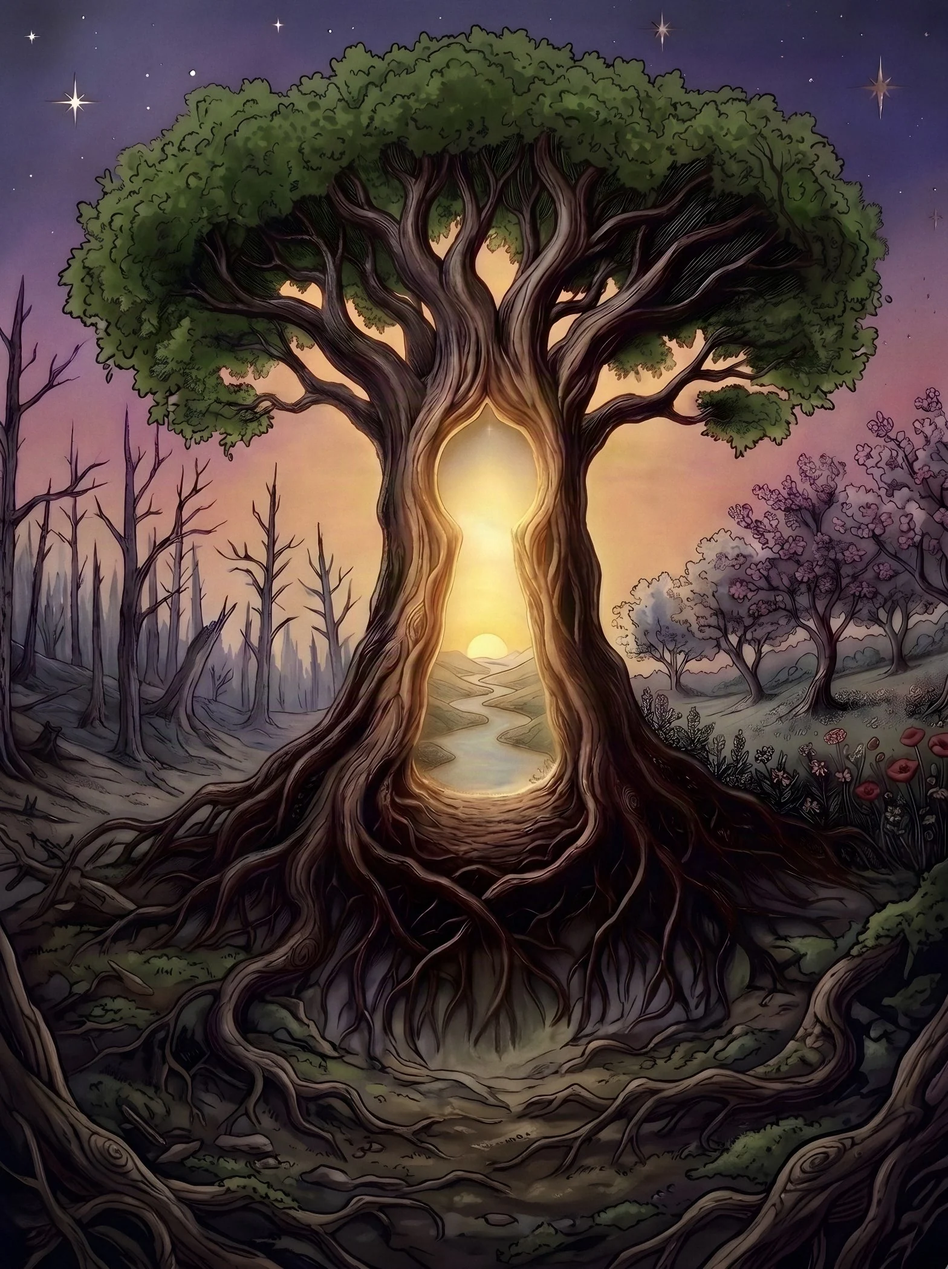
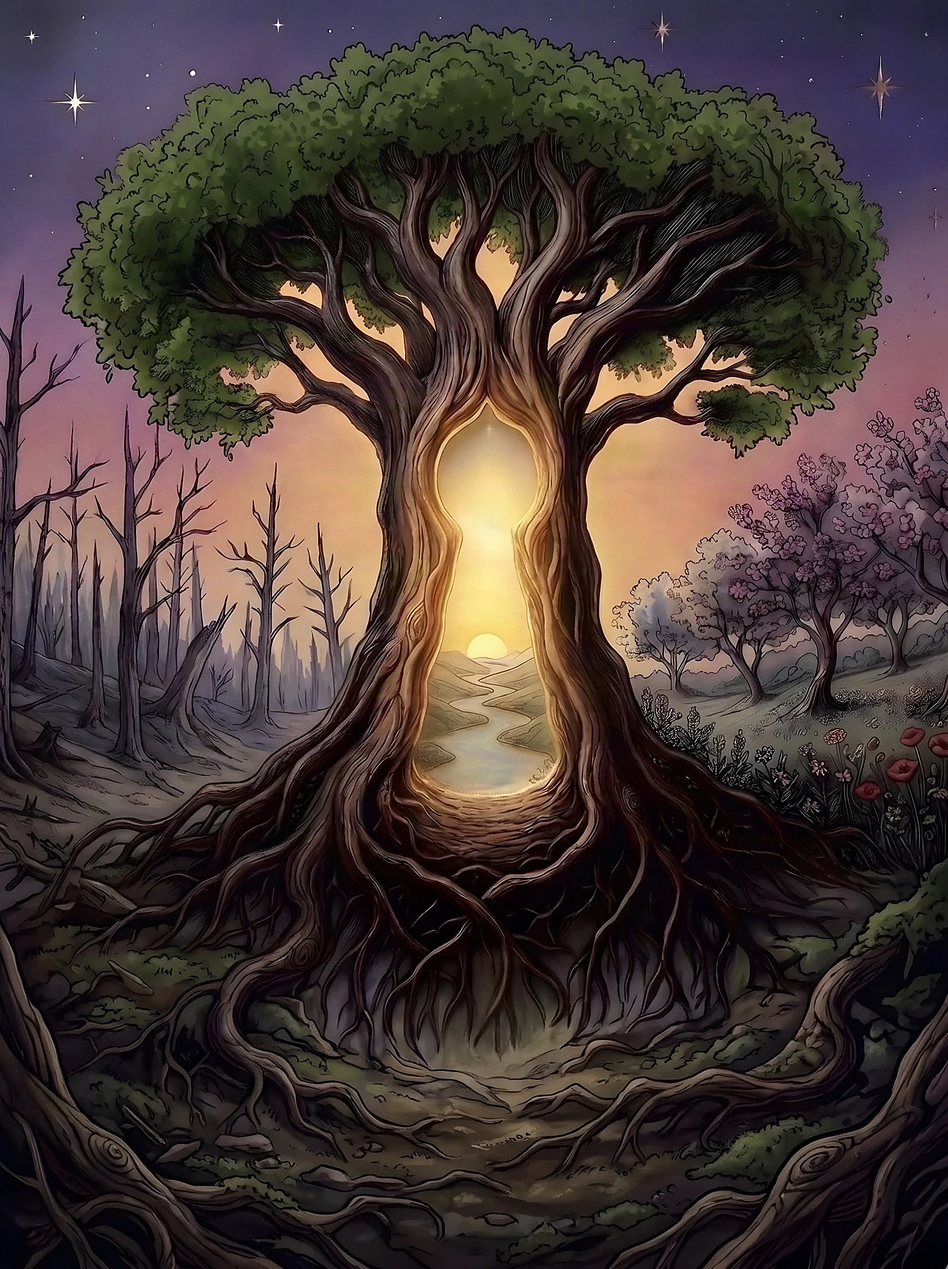
Image d'ouverture : traits affinés (netteté), luminosité inchangée
Claude-Session: https://claude.ai/code/session_013GcFnatW4anFAXBN47GWwL

diff --git a/index.html b/index.html
@@ -142,7 +142,7 @@ footer{padding-bottom:110px}
 .ilight{position:absolute;left:var(--cx,52%);top:var(--cy,45%);width:70vmin;height:70vmin;margin:-35vmin 0 0 -35vmin;border-radius:50%;pointer-events:none;opacity:0;mix-blend-mode:screen;background:radial-gradient(circle,#fff7d6 0,#fde9a3 15%,rgba(253,226,140,.72) 34%,rgba(202,150,83,.22) 54%,rgba(202,150,83,0) 72%)}
 .iflood{position:absolute;inset:0;pointer-events:none;opacity:0;background:radial-gradient(circle at var(--cx,52%) var(--cy,45%),#fff7d6 0,#fde9a3 38%,#f0c27a 100%)}
 .iworld{position:absolute;inset:0;opacity:0;pointer-events:none}
-.iworld::before{content:"";position:absolute;inset:-12%;background:url(img/ouverture-paysage.webp) 51.6% 45%/cover no-repeat;filter:blur(34px) saturate(1.45) brightness(.74)}
+.iworld::before{content:"";position:absolute;inset:-12%;background:url(img/ouverture-paysage.webp?v=2) 51.6% 45%/cover no-repeat;filter:blur(34px) saturate(1.45) brightness(.74)}
 .iworld::after{content:"";position:absolute;inset:0;background:radial-gradient(70% 55% at 51% 40%,rgba(255,226,150,.42),rgba(255,226,150,0) 70%),radial-gradient(90% 70% at 50% 100%,rgba(240,140,90,.38),rgba(240,140,90,0) 70%),linear-gradient(180deg,rgba(74,44,104,.62) 0%,rgba(150,80,130,.38) 34%,rgba(12,9,20,.12) 62%,rgba(12,9,20,.45) 100%)}
 #motes{position:absolute;inset:0;z-index:4;width:100%;height:100%;pointer-events:none}
 .icue{position:absolute;left:50%;bottom:calc(24px + env(safe-area-inset-bottom,0px));z-index:6;transform:translateX(-50%);display:grid;justify-items:center;gap:10px;font-family:var(--f-label);font-weight:600;font-size:clamp(.86rem,2vw,1.4rem);letter-spacing:.26em;text-transform:uppercase;text-align:center;padding:18px 26px;width:max-content;max-width:94vw;transition:opacity .5s,transform .5s}
@@ -496,7 +496,7 @@ footer p{color:var(--parch-dim);font-style:italic;margin-top:.4rem}
   .ihero{position:relative;min-height:100vh}.ihero .nav,.ihero .hero-in>*{opacity:1;transform:none}
 }
 </style>
-<link rel="preload" as="image" href="img/ouverture-paysage.webp" media="(min-width:701px)" fetchpriority="high"><link rel="preload" as="image" href="img/ouverture-m.webp" media="(max-width:700px)" fetchpriority="high">
+<link rel="preload" as="image" href="img/ouverture-paysage.webp?v=2" media="(min-width:701px)" fetchpriority="high"><link rel="preload" as="image" href="img/ouverture-m.webp?v=2" media="(max-width:700px)" fetchpriority="high">
 </head>
 <body>
 
@@ -510,7 +510,7 @@ footer p{color:var(--parch-dim);font-style:italic;margin-top:.4rem}
   <div class="istage">
     <div class="iworld" aria-hidden="true"></div>
     <div class="igrain" aria-hidden="true"></div>
-    <div class="icam"><picture><source media="(max-width:700px)" srcset="img/ouverture-m.webp"><img class="ipic" src="img/ouverture-paysage.webp" width="2576" height="1923" alt="Le chêne-serrure de Laëria : son tronc s'ouvre sur une rivière au soleil couchant, sous un ciel violet." fetchpriority="high" draggable="false"></picture></div>
+    <div class="icam"><picture><source media="(max-width:700px)" srcset="img/ouverture-m.webp?v=2"><img class="ipic" src="img/ouverture-paysage.webp?v=2" width="2576" height="1923" alt="Le chêne-serrure de Laëria : son tronc s'ouvre sur une rivière au soleil couchant, sous un ciel violet." fetchpriority="high" draggable="false"></picture></div>
     <div class="iglow" aria-hidden="true"><picture><source media="(max-width:700px)" srcset="img/ouverture-lueur.webp"><img src="img/ouverture-lueur-paysage.webp" alt="" width="784" height="585" draggable="false"></picture></div>
     <div class="ivig" aria-hidden="true"></div>
     <div class="irays" aria-hidden="true"></div>
